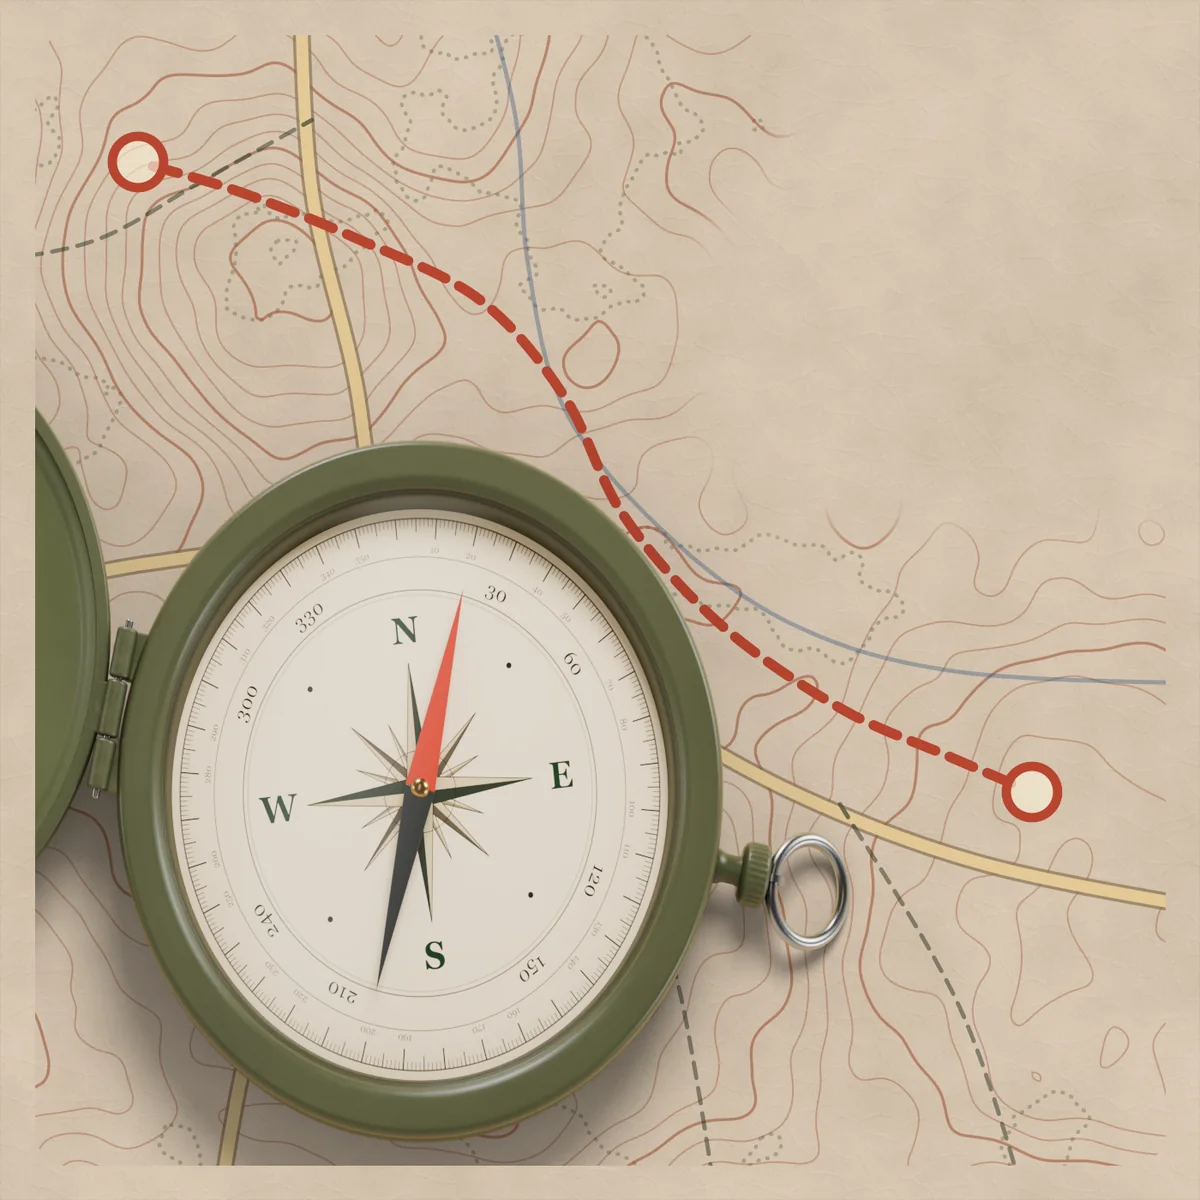
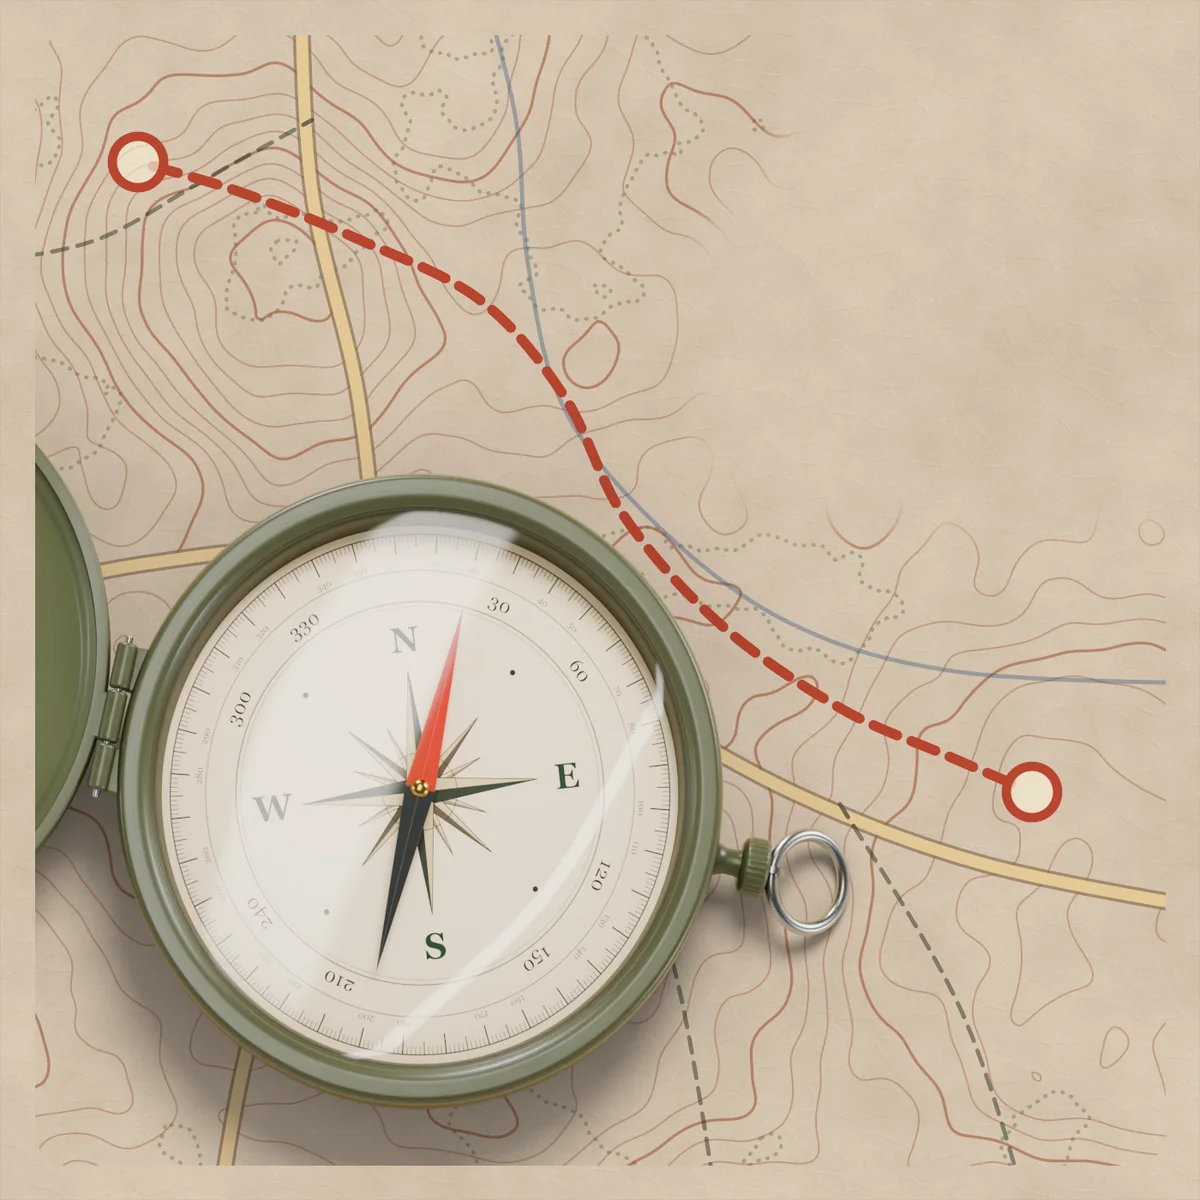
fix(home): navigation card compass — round on the page, real glass reflections
- The compass was pre-stretched 1.16× for the posed card, but the page only squashes
  the art to ~0.95 of its height, so the dial read ~6% too tall and the ring swollen.
  Measured on the page at 1920×910: now 1.05 → dial H/W 1.003.
- Slimmer bezel ring: the lip, glass and dial move out by 0.034 R (larger face).
- Glass reflections: a soft window wash over the dial's left half (clear of the needle)
  and a thin bright strip along the lower-right rim; a little more clear coat on the paint.

diff --git a/scripts/blender/render_home_nav_compass.py b/scripts/blender/render_home_nav_compass.py
@@ -45,7 +45,9 @@ LENS = 85.0
 # squashes it to ~0.845 of its width on screen. The instrument is pre-stretched vertically to make up most of that
 # (anamorphic pixels; horizontal scale and placement unchanged), so on the page its dial reads nearly round while
 # the flat map print under it keeps the card's pose. 1 = a plain render.
-ANAMORPH = float(os.environ.get('HNC_ANAMORPH', '1.16'))
+# Measured on the page (1920×910, chapter 03's slot): the posed card shows the art at ~0.95 of its height, so 1.05
+# brings the dial back to round (1.16 left it ~6% too tall and the ring looked swollen).
+ANAMORPH = float(os.environ.get('HNC_ANAMORPH', '1.05'))
 # placement on the card (fractions): case centre and case radius. The card's copy zone is top-right, so the
 # lid opens toward the left and runs off the card's edge.
 PLACE = json.loads(os.environ.get('HNC_PLACE', 'null')) or {'cx': 0.35, 'cy': 0.66, 'r': 0.25}
@@ -59,7 +61,9 @@ WEAR = float(os.environ.get('HNC_WEAR', '0.35'))                 # paint wear on
 Z_SEAT = 0.40      # top of the bezel / where the lid closes
 Z_GLASS = 0.352
 Z_DIAL = 0.206
-DIAL_R = 0.822
+# LIP: how far the bezel's inner lip, the glass and the dial are pushed outward — a slimmer ring, a larger face
+LIP = float(os.environ.get('HNC_LIP', '0.034'))
+DIAL_R = 0.822 + LIP
 Z_NEEDLE = Z_DIAL + 0.082   # the needle floats well clear of the dial and casts its own small shadow
 
 OLIVE = os.environ.get('HNC_OLIVE', '#474d37')       # paint, before light
@@ -178,8 +182,8 @@ def mat_paint(name, base=OLIVE, rough=0.46, wear=WEAR, grooves=(), shade=0.55):
     co = obj_coords(nt)
     b.inputs['Metallic'].default_value = 0.0
     b.inputs['Specular IOR Level'].default_value = 0.42
-    b.inputs['Coat Weight'].default_value = 0.12
-    b.inputs['Coat Roughness'].default_value = 0.34
+    b.inputs['Coat Weight'].default_value = float(os.environ.get('HNC_COAT', '0.22'))
+    b.inputs['Coat Roughness'].default_value = float(os.environ.get('HNC_COAT_ROUGH', '0.22'))
     # tone: the paint is never one flat colour
     tone = nt.nodes.new('ShaderNodeTexNoise'); tone.inputs['Scale'].default_value = 2.4; tone.inputs['Detail'].default_value = 4.0
     nt.links.new(co, tone.inputs['Vector'])
@@ -292,22 +296,27 @@ def mat_paper():
     return m
 
 
-SOFTBOX = json.loads(os.environ.get('HNC_SOFTBOX', '[-0.08, 0.02, -135, 2.4]'))   # offset x, offset y, roll°, strength
+# Reflectors only reflections see — a studio's window strips, mirrored in the glass and the bezel's clear coat.
+# Each: [offset x, offset y, roll°, strength, width, edge feather]. The offsets tip the strip away from the glass's
+# mirror direction; on the glass a strip lands about 0.47 R out per 0.1 of offset. The strip's
+# orientation on the glass follows both its roll and its offset — tune by render, not by formula.
+#   1. the main window: a soft wash over the dial's left half, its edge just short of the needle
+#   2. a thin bright strip near the lower-right rim, the second edge a domed glass always shows
+SOFTBOXES = json.loads(os.environ.get('HNC_SOFTBOXES', '[[-0.074, 0.074, -135, 15, 1.4, 0.16], [0.112, -0.112, -45, 22, 0.22, 0.3]]'))
 
 
-def softbox():
-    """A feathered strip of light that only reflections see: a faint diagonal sheen on the glass and a soft
-    long highlight along the bezel. It never lights the scene."""
+def softbox(strength, width, edge):
+    """A feathered strip of light that only reflections see. It never lights the scene."""
     bpy.ops.mesh.primitive_plane_add(size=1)
     ob = bpy.context.active_object; ob.name = 'softbox'
-    ob.scale = (7.0, float(os.environ.get('HNC_SOFTBOX_W', '2.2')), 1)
+    ob.scale = (7.0, width, 1)
     m = bpy.data.materials.new('softbox'); m.use_nodes = True
     nt = m.node_tree; nt.nodes.clear()
     out = nt.nodes.new('ShaderNodeOutputMaterial')
     tc = nt.nodes.new('ShaderNodeTexCoord')
     sep = nt.nodes.new('ShaderNodeSeparateXYZ'); nt.links.new(tc.outputs['Generated'], sep.inputs['Vector'])
     fall = []
-    for axis, edge in (('X', 0.22), ('Y', 0.45)):
+    for axis, edge in (('X', 0.22), ('Y', edge)):
         mr = nt.nodes.new('ShaderNodeMath'); mr.operation = 'PINGPONG'; mr.inputs[1].default_value = 0.5
         nt.links.new(sep.outputs[axis], mr.inputs[0])
         sm = nt.nodes.new('ShaderNodeMapRange'); sm.interpolation_type = 'SMOOTHERSTEP'
@@ -315,7 +324,7 @@ def softbox():
         nt.links.new(mr.outputs['Value'], sm.inputs['Value']); fall.append(sm)
     mul = math_node(nt, 'MULTIPLY', fall[0].outputs['Result'], fall[1].outputs['Result'])
     em = nt.nodes.new('ShaderNodeEmission'); em.inputs['Color'].default_value = (1.0, 0.985, 0.95, 1)
-    nt.links.new(math_node(nt, 'MULTIPLY', mul, SOFTBOX[3]), em.inputs['Strength'])
+    nt.links.new(math_node(nt, 'MULTIPLY', mul, strength), em.inputs['Strength'])
     nt.links.new(em.outputs['Emission'], out.inputs['Surface'])
     ob.data.materials.append(m)
     ob.visible_camera = False; ob.visible_diffuse = False; ob.visible_shadow = False
@@ -485,9 +494,9 @@ def build():
     # all edges softly rounded (machined, not moulded), then a small chamfer and a short lip down to the glass
     lathe('bezel', rounded([
         (0.963, 0.282), (0.978, 0.283), (0.992, 0.293, 0.008), (0.994, 0.372, 0.018), (0.978, Z_SEAT, 0.016),
-        (0.884, Z_SEAT - 0.004, 0.012), (0.864, 0.385, 0.008), (0.854, Z_GLASS + 0.016, 0.005), (0.852, Z_GLASS + 0.006, 0.003), (0.846, Z_GLASS + 0.004),
+        (0.884 + LIP, Z_SEAT - 0.004, 0.012), (0.864 + LIP, 0.385, 0.008), (0.854 + LIP, Z_GLASS + 0.016, 0.005), (0.852 + LIP, Z_GLASS + 0.006, 0.003), (0.846 + LIP, Z_GLASS + 0.004),
     ], steps=6), paint_bezel, sharp_deg=70)
-    lathe('inner-wall', [(0.846, Z_GLASS + 0.004), (0.838, Z_GLASS - 0.006), (0.832, Z_GLASS - 0.04), (0.828, Z_DIAL + 0.012), (0.826, Z_DIAL - 0.004)], paint_inner)
+    lathe('inner-wall', [(r + LIP, z) for r, z in [(0.846, Z_GLASS + 0.004), (0.838, Z_GLASS - 0.006), (0.832, Z_GLASS - 0.04), (0.828, Z_DIAL + 0.012), (0.826, Z_DIAL - 0.004)]], paint_inner)
     # dial
     lathe('dial', [(0, Z_DIAL), (DIAL_R + 0.004, Z_DIAL), (DIAL_R + 0.004, Z_DIAL - 0.02)], mat_dial())
     # pivot: a post up from the dial, a brass cap over the needle
@@ -496,8 +505,8 @@ def build():
                     (0.024, Z_DIAL + 0.001), (0.026, Z_DIAL)], brass, segments=128, sharp_deg=50)
     needle(mat_enamel('needle-red', '#bf3a2b', rough=0.32, coat=0.3), mat_enamel('needle-dark', '#2d3133', rough=0.36, coat=0.25))
     # glass: thin and gently domed, seated under the bezel lip
-    lathe('glass', [(0, Z_GLASS + 0.014), (0.5, Z_GLASS + 0.011), (0.8, Z_GLASS + 0.004), (0.844, Z_GLASS),
-                    (0.844, Z_GLASS - 0.006), (0.8, Z_GLASS - 0.002), (0.5, Z_GLASS + 0.005), (0, Z_GLASS + 0.008)], mat_glass(), segments=256)
+    lathe('glass', [(0, Z_GLASS + 0.014), (0.5, Z_GLASS + 0.011), (0.8 + LIP, Z_GLASS + 0.004), (0.844 + LIP, Z_GLASS),
+                    (0.844 + LIP, Z_GLASS - 0.006), (0.8 + LIP, Z_GLASS - 0.002), (0.5, Z_GLASS + 0.005), (0, Z_GLASS + 0.008)], mat_glass(), segments=256)
 
     # ── crown and bail, opposite the hinge
     uc = Vector((math.cos(HINGE + math.pi), math.sin(HINGE + math.pi), 0))
@@ -620,14 +629,13 @@ def build():
     cam.shift_x = 0.5 - PLACE['cx']
     cam.shift_y = (PLACE['cy'] - 0.5) / ANAMORPH   # shift is in frame widths; the frame now spans 1/ANAMORPH as much height
     cam.clip_start = 0.1; cam.clip_end = 200
-    # the softbox sits beyond the glass's mirror direction (camera ray reflected), pushed up-left so only its
-    # feathered edge crosses the glass: a faint diagonal sheen over the upper-left, the needle stays clear
-    if SOFTBOX[3] > 0:
-        w = softbox()
-        d = Vector((SOFTBOX[0], math.sin(TILT) + SOFTBOX[1], math.cos(TILT))).normalized()
+    # each strip sits beyond the glass's mirror direction (camera ray reflected), tipped by its offset
+    for ox, oy, roll, strength, width, edge in SOFTBOXES:
+        w = softbox(strength, width, edge)
+        d = Vector((ox, math.sin(TILT) + oy, math.cos(TILT))).normalized()
         w.location = Vector((0, 0, Z_GLASS)) + 8.0 * d
         w.rotation_euler = (-d).to_track_quat('-Z', 'Y').to_euler()
-        w.rotation_euler.rotate_axis('Z', math.radians(SOFTBOX[2]))
+        w.rotation_euler.rotate_axis('Z', math.radians(roll))
 
     if os.environ.get('HNC_BLEND'):
         bpy.ops.wm.save_as_mainfile(filepath=os.environ['HNC_BLEND'])
